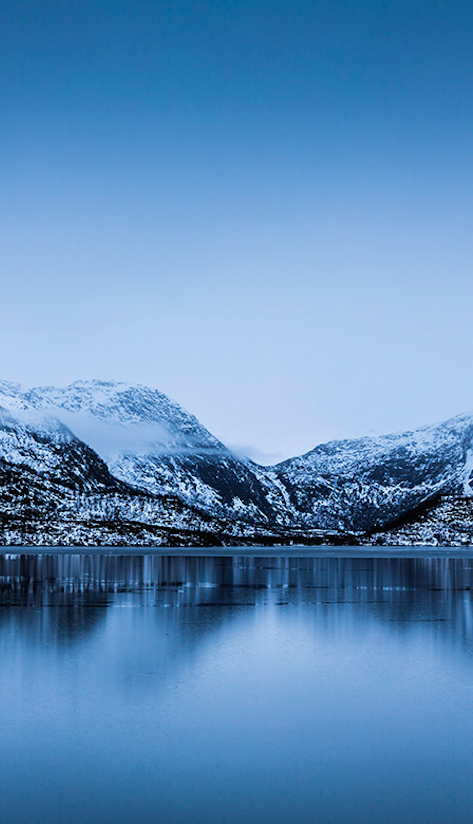
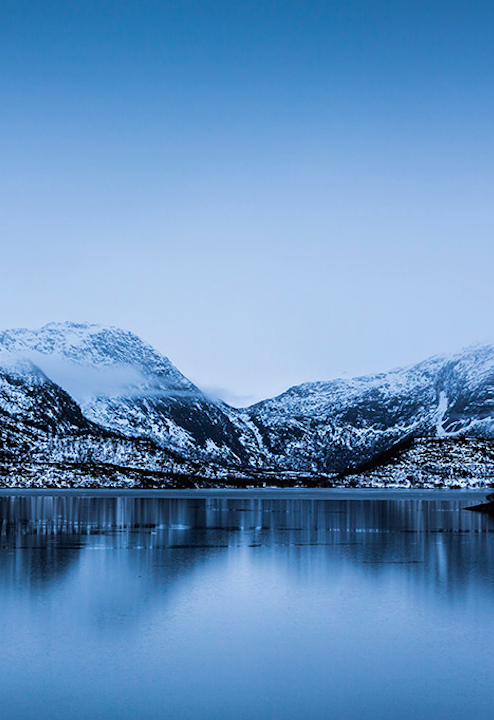
more work

diff --git a/index.html b/index.html
@@ -37,9 +37,9 @@
     <img src="images/mountains-zoom-2.png" id="header-image-2">
     <img src="images/mountains-zoom-3.png" id="header-image-3">
     <img src="images/mountains-zoom-4.png" id="header-image-4">
-    <img src="images/mountains-zoom-5-new.png" id="header-image-5">
-    <img src="images/mountains-zoom-6-new.png" id="header-image-6">
-    <img src="images/mountains-zoom-7-new-new.png" id="header-image-7">
+    <img src="images/mountains-zoom-5.png" id="header-image-5">
+    <img src="images/mountains-zoom-6.png" id="header-image-6">
+    <img src="images/mountains-zoom-7.png" id="header-image-7">
   </div>
 
 
@@ -91,7 +91,7 @@
         <span class="promo-item-left">
           <img src="images/friend_sea.jpg" style="width: 210px"/>
           <br>
-          <p style="font-size: .8em; margin-bottom: 4px; color: #4B474A"><b>Back to School Promotion</b></p>
+          <p style="font-size: .8em; margin-bottom: 4px; color: #4B474A"><b>Friend of the <br>Sea</b></p>
 
           <p>
             Neque enim ipsam voluptatem quia voluptas sit aspernatur, qui dolorem ipsum quia dolor.

diff --git a/css/style.css b/css/style.css
@@ -315,8 +315,8 @@ p{
 
 .width-box{
   margin-top: 18px;
-  padding-left: 8%;
-  padding-right: 8%;
+  padding-left: 18%;
+  padding-right: 18%;
 
 }
 
